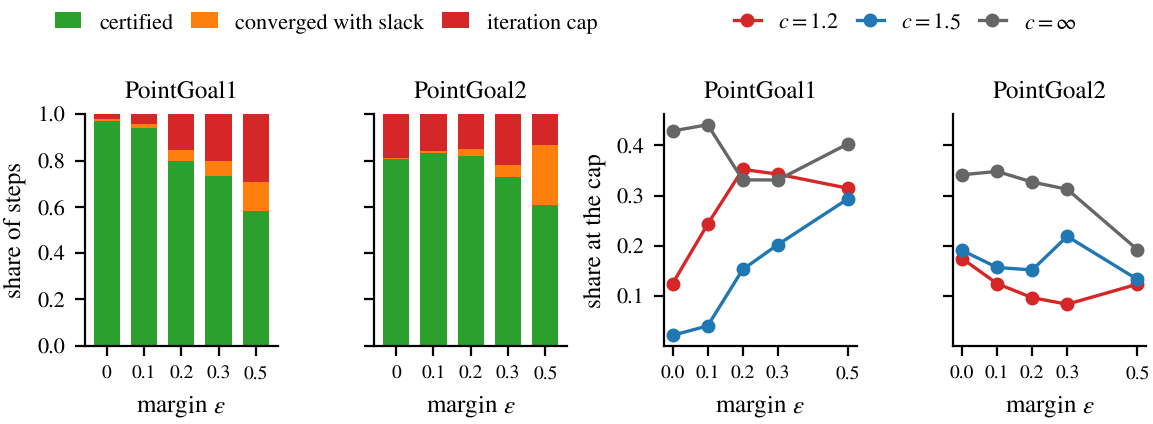
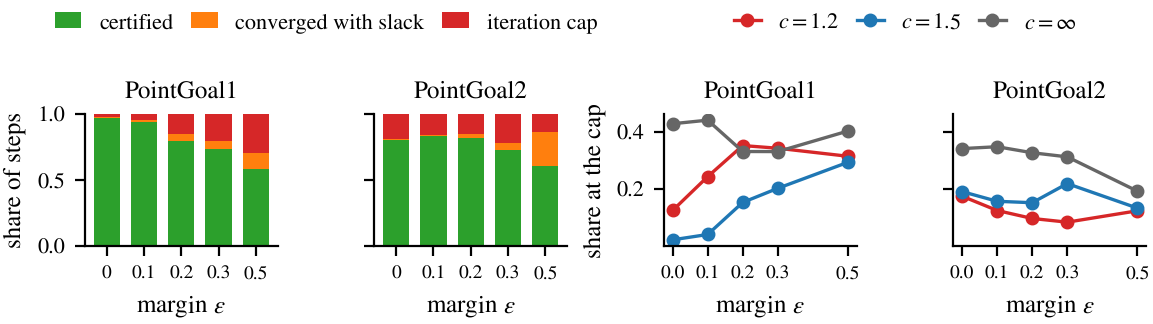
paper_figures.py: shorter one-row main-text figures (heights as settings)
ROW_HEIGHT and CONVERGENCE_HEIGHT set the heights of fig_eps_sweep_c1_5_row and
fig_convergence; both are lower (1.6 and 1.5 in, from 2.1 and 2.0) to save page
space. Figures re-rendered from the 30-seed results.

Claude-Session: https://claude.ai/code/session_01CvCPTxxFYvd1nyXasiMPrc

diff --git a/src/scripts/paper_figures.py b/src/scripts/paper_figures.py
@@ -19,6 +19,8 @@ OUT = ROOT / "paper_graphs"
 # which seeds they show. The analysis outputs record their cap, and the figures stop if the two differ
 SEED_CAP = 30
 TEXT_WIDTH = 6.0 # inches, the paper's text width: every figure spans it
+ROW_HEIGHT = 1.6 # inches, the height of the one-row margin-sweep figure (fig_eps_sweep_c1_5_row)
+CONVERGENCE_HEIGHT = 1.5 # inches, the height of the one-row convergence figure (fig_convergence)
 MAIN_BOUND = 1.5 # the main world models' Lipschitz bound
 SURVIVAL_TASK = 1 # the main model whose survival curves go in the appendix
 EPS_TICKS = [0.0, 0.1, 0.2, 0.3, 0.5]
@@ -218,7 +220,7 @@ def cap_share_lines(rows, axes):
 def fig_sweep_row(rows, planners, folder, name):
     # fig_sweep in one row of the text width: violation rate (left pair) and return (right pair) against margin_eps on
     # each task's main world model, one legend above. Half the height of the 2 x 2 layout, fonts at full size
-    fig, axes = plt.subplots(1, 4, figsize=(TEXT_WIDTH, 2.1))
+    fig, axes = plt.subplots(1, 4, figsize=(TEXT_WIDTH, ROW_HEIGHT))
     axes[1].sharey(axes[0])
     axes[3].sharey(axes[2])
     for ax, (key, task) in zip(axes, (("rate", 1), ("rate", 2), ("return", 1), ("return", 2))):
@@ -246,7 +248,7 @@ def fig_stop_reasons(rows):
 def fig_convergence(rows):
     # The two convergence figures in one row of the text width: how SCP+MPPI's steps ended on the main models (left
     # pair) and its share of steps at the iteration cap for each Lipschitz bound (right pair), each pair with its legend
-    fig, axes = plt.subplots(1, 4, figsize=(TEXT_WIDTH, 2.0))
+    fig, axes = plt.subplots(1, 4, figsize=(TEXT_WIDTH, CONVERGENCE_HEIGHT))
     axes[1].sharey(axes[0])
     axes[3].sharey(axes[2])
     shown = stop_reason_bars(rows, axes[:2], labels={"certified": "certified", "converged_uncertified":
